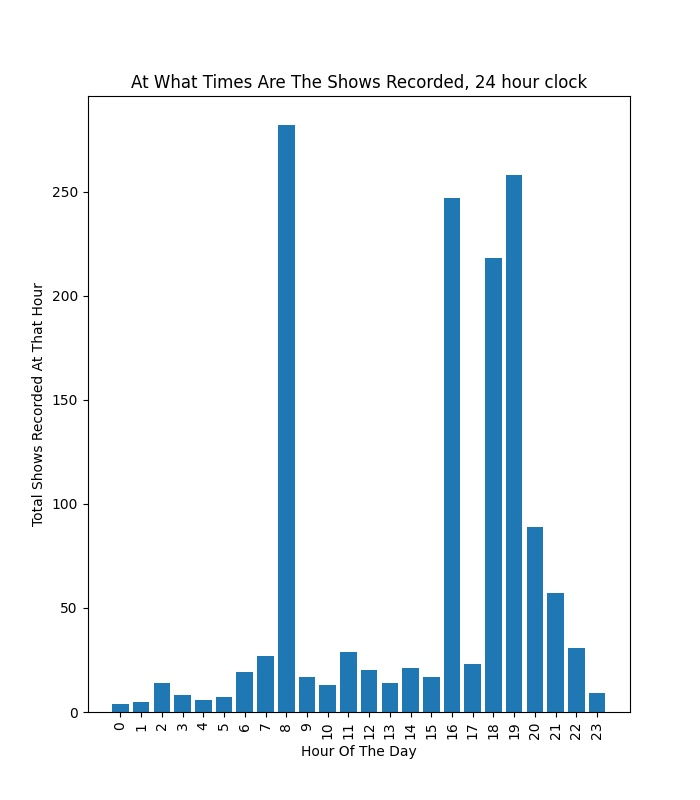
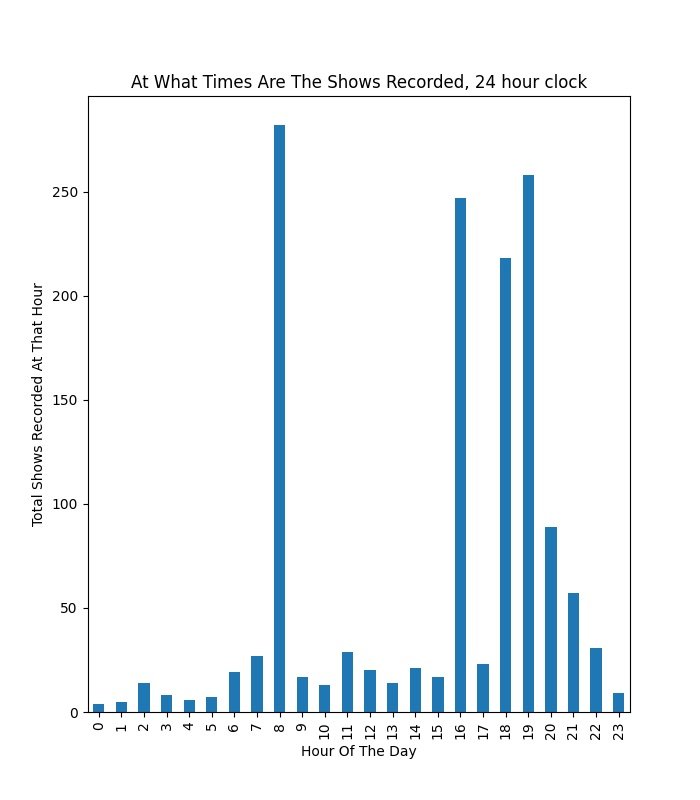
Updated 3 out of 4 graphs to plot function

Changed region(s): [[0.12, 0.1562, 0.9, 0.9375]]

diff --git a/dvrmediaanalysis.py b/dvrmediaanalysis.py
@@ -191,9 +191,9 @@ class MyWindow(QtWidgets.QMainWindow, Ui_MainWindow):
     def set_types(self, speed_dataframe):
         '''Change the column types from object to numeric'''
         if "download" in speed_dataframe:
-            speed_dataframe = speed_dataframe.astype(dtype={"download":"float64"})
+            speed_dataframe = speed_dataframe.astype(dtype={"download": "float64"})
         if "upload" in speed_dataframe:
-            speed_dataframe = speed_dataframe.astype(dtype={"upload":"float64"})
+            speed_dataframe = speed_dataframe.astype(dtype={"upload": "float64"})
 
         return speed_dataframe
 
@@ -218,41 +218,38 @@ class MyWindow(QtWidgets.QMainWindow, Ui_MainWindow):
 
     def bar_graph(self, new_dataframe, keys):
         """Build a bar graph."""
-        # Find the height of the bar graph data
-        height = self.get_graph_data(new_dataframe, keys)
-        # Print Bar chart, bar(x-axis, height)
-        plt.figure(figsize=(7, 8))
-        plt.bar(range(len(height)), height)
-        plt.xticks(range(len(height)), keys)
-        plt.xticks(rotation=90)
-        plt.xlabel(self.single_graph_labels_dict["X-Label"])
-        plt.ylabel(self.single_graph_labels_dict["Y-Label"])
-        plt.title(self.single_graph_labels_dict["Title"])
+        # Plot and label bar graph
+        new_dataframe.fillna(0).plot(
+            kind='bar', figsize=(7, 8),
+            title=self.single_graph_labels_dict["Title"],
+            xlabel=self.single_graph_labels_dict["X-Label"],
+            ylabel=self.single_graph_labels_dict["Y-Label"])
+
         # Save graph
         self.save_graph(self.single_graph_labels_dict["Title"])
         plt.show()
 
     def pie_graph(self, new_dataframe, keys):
         """Build a pie graph."""
-        # Find the size of the bar graph data
-        size = self.get_graph_data(new_dataframe, keys)
-        # Print Pie chart, pie(size, lables)
-        plt.figure(figsize=(8, 6))
-        plt.pie(size, autopct='%1.1f%%')
-        patches, _ = plt.pie(size)
-        plt.legend(patches, keys, bbox_to_anchor=(1, 1), loc="upper left")
-        plt.title(self.single_graph_labels_dict["Title"])
+        # Plot and label pie graph
+        new_dataframe.fillna(0).plot(
+            kind='pie', figsize=(9, 7),
+            title=self.single_graph_labels_dict["Title"])
+
+        plt.legend(bbox_to_anchor=(1, 1), loc="upper left")
         # Save graph
         self.save_graph(self.single_graph_labels_dict["Title"])
         plt.show()
 
-    def stacked_bar_graph(self, new_dataframe, keys):
+    def stacked_bar_graph(self, new_dataframe):
         """Build a stacked bar graph."""
         # Plot and label stacked bar graph
-        new_dataframe.unstack().fillna(0).plot(kind='bar', stacked=True, figsize=(13, 9))
-        plt.xlabel(self.single_graph_labels_dict["X-Label"])
-        plt.ylabel(self.single_graph_labels_dict["Y-Label"])
-        plt.title(self.single_graph_labels_dict["Title"])
+        new_dataframe.unstack().fillna(0).plot(
+            kind='bar', stacked=True, figsize=(13, 9),
+            title=self.single_graph_labels_dict["Title"],
+            xlabel=self.single_graph_labels_dict["X-Label"],
+            ylabel=self.single_graph_labels_dict["Y-Label"])
+
         plt.legend(bbox_to_anchor=(1, 1), loc="upper left")
 
         # Save graph
@@ -303,7 +300,7 @@ class MyWindow(QtWidgets.QMainWindow, Ui_MainWindow):
                 self.pie_graph(new_dataframe, keys)
             elif self.single_graph_labels_dict["Chart"] == "SBar":
                 # Build stacked bar graph
-                self.stacked_bar_graph(new_dataframe, keys)
+                self.stacked_bar_graph(new_dataframe)
             elif self.single_graph_labels_dict["Chart"] == "Scatter":
                 # Build line graph
                 self.scatter_graph(new_dataframe, keys)
